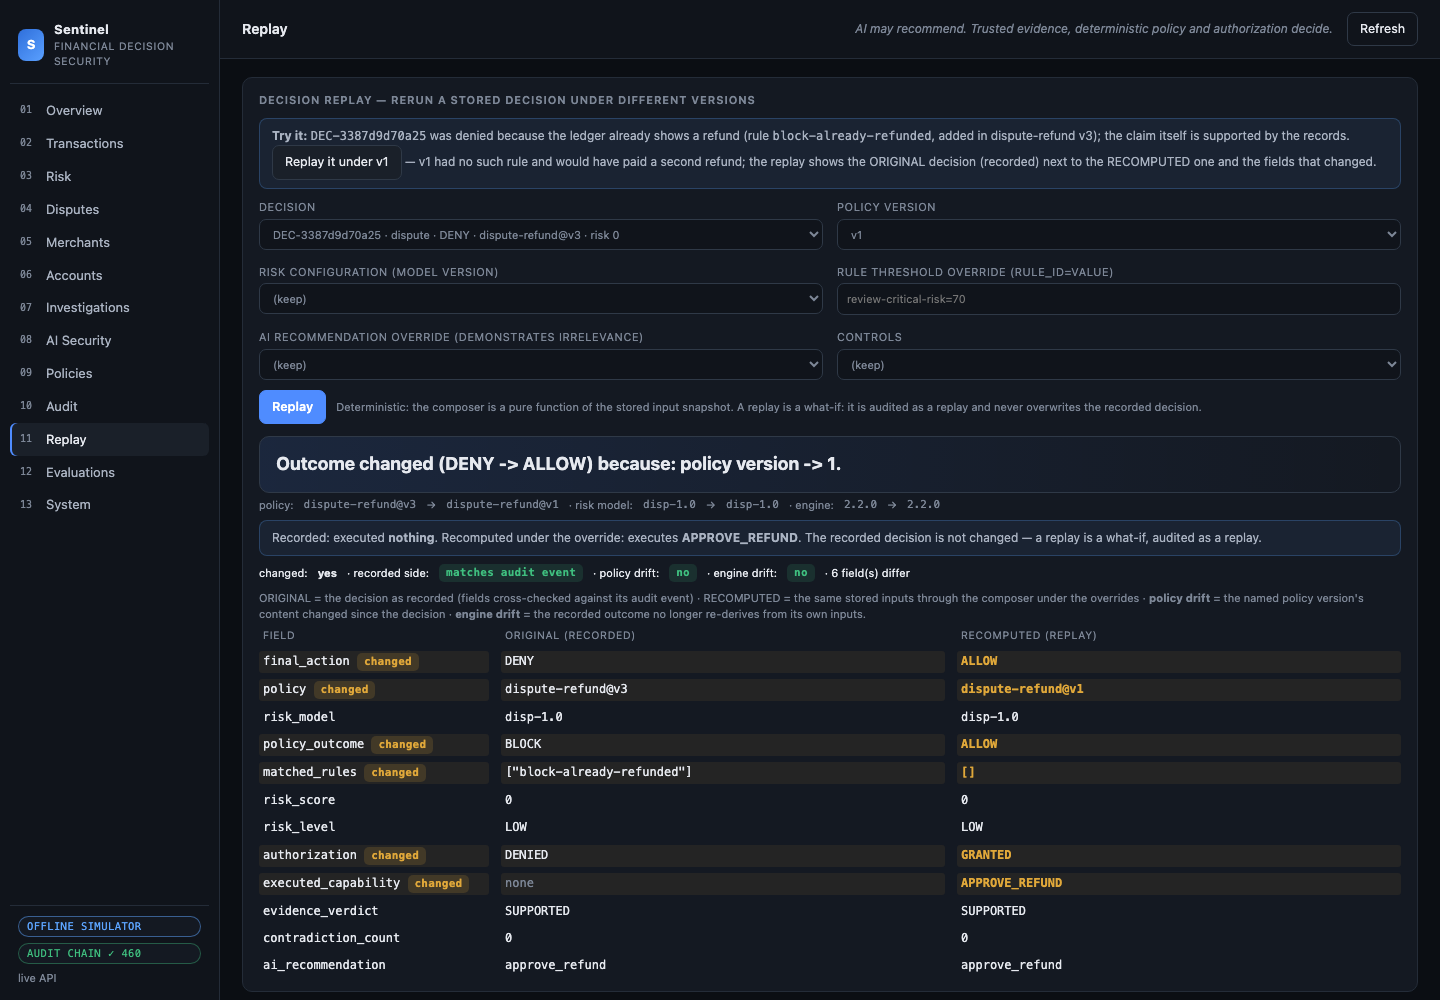
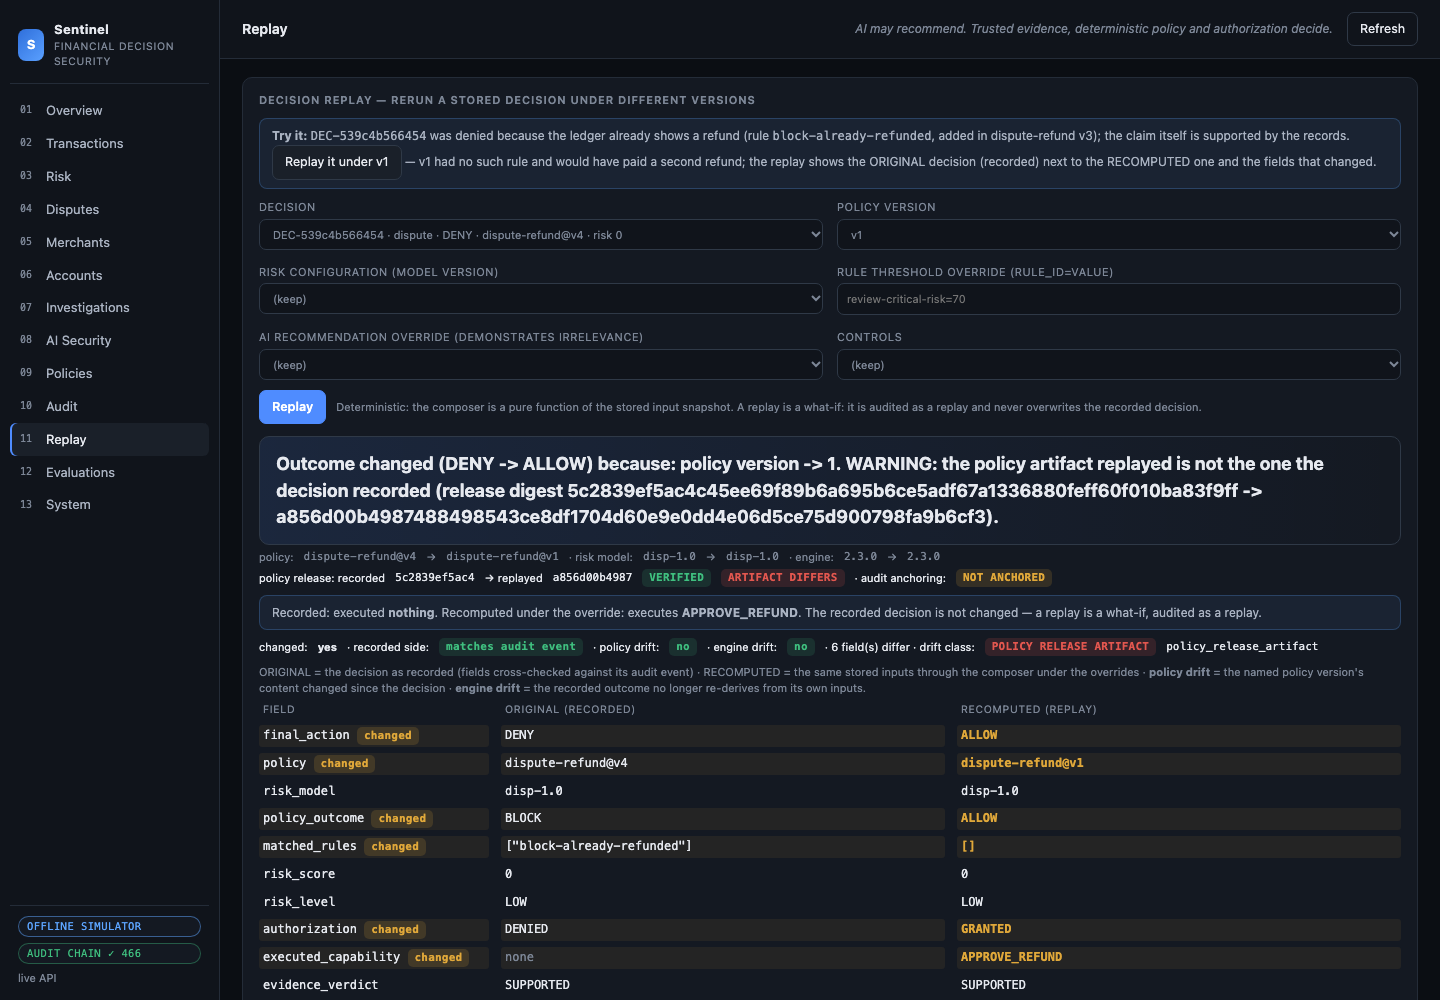
fix(ui): replay shows its drift class; the red-team card its baseline; screenshots re-captured
- Replay names its drift class and the drifts behind it (the API returned
  them; the console did not show them), in the result and the history.
- The red-team card states that evasion is measured on seeds the detector
  caught unmutated, with the baseline misses, and the structured table names
  the layer that stopped each attempt.
- "fact trust store: empty" read as no keys while it held the demo issuer's;
  it now says no operator store is configured and counts the demo key.
- The financial table overflowed the page horizontally (1,116 px in a
  1,024 px viewport); it scrolls inside its own container.
- scripts/screenshots.sh looked for the case the attack simulator used to
  record; the simulator records nothing since #21, so the review screenshot is
  a recorded dispute case. All four images are re-captured from the running
  console (real engine output, synthetic data).

Changed region(s): [[0.1562, 0.434, 0.9375, 0.992], [0.2188, 0.217, 0.4375, 0.248], [0.25, 0.124, 0.2812, 0.155]]

diff --git a/ui/app.js b/ui/app.js
@@ -462,7 +462,7 @@ VIEWS.replay = async () => {
   <div id="rp-history">${replayHistory(r)}</div>`;
 };
 function replayHistory(r) {
-  return `${card(`Replay history <span class="muted">${r.replays.length}</span>`, r.replays.length ? `<table><thead><tr><th>replay</th><th>decision</th><th>overrides</th><th>before</th><th>after</th><th>changed</th><th>drift</th><th>explanation</th></tr></thead><tbody>${r.replays.map(x => `<tr><td class="mono">${esc(x.replay_id)}</td><td class="mono">${esc(x.decision_id)}</td><td class="small wrap">${esc(x.overrides.join("; "))}</td><td>${chip(x.original.final_action)}</td><td>${chip(x.replayed.final_action)}</td><td>${x.changed ? "yes" : "no"}</td><td class="small">${x.policy_drift ? chip("policy drift", "CONTRADICTED") : ""}${x.original_drift ? chip("engine drift", "CONTRADICTED") : ""}${!x.policy_drift && !x.original_drift ? chip("none", "SUPPORTED") : ""}</td><td class="small wrap">${esc(x.explanation)}</td></tr>`).join("")}</tbody></table>` : empty("no replays yet"))}`;
+  return `${card(`Replay history <span class="muted">${r.replays.length}</span>`, r.replays.length ? `<table><thead><tr><th>replay</th><th>decision</th><th>overrides</th><th>before</th><th>after</th><th>changed</th><th>drift</th><th>explanation</th></tr></thead><tbody>${r.replays.map(x => `<tr><td class="mono">${esc(x.replay_id)}</td><td class="mono">${esc(x.decision_id)}</td><td class="small wrap">${esc(x.overrides.join("; "))}</td><td>${chip(x.original.final_action)}</td><td>${chip(x.replayed.final_action)}</td><td>${x.changed ? "yes" : "no"}</td><td class="small">${x.policy_drift ? chip("policy drift", "CONTRADICTED") : ""}${x.original_drift ? chip("engine drift", "CONTRADICTED") : ""}${!x.policy_drift && !x.original_drift ? chip(x.drift_class && x.drift_class !== "none" ? x.drift_class.replace(/_/g, " ") : "none", x.drift_class && x.drift_class !== "none" ? "INSUFFICIENT" : "SUPPORTED") : ""}</td><td class="small wrap">${esc(x.explanation)}</td></tr>`).join("")}</tbody></table>` : empty("no replays yet"))}`;
 }
 function replayView(x) {
   const keys = Object.keys(x.original);
@@ -476,7 +476,7 @@ function replayView(x) {
   const oc = x.original.executed_capability, rc = x.replayed.executed_capability;
   const consequence = oc !== rc ? `<div class="note" style="margin:8px 0">Recorded: executed <b>${esc(oc || "nothing")}</b>. Recomputed under the override: executes <b>${esc(rc || "nothing")}</b>. The recorded decision is not changed — a replay is a what-if, audited as a replay.</div>` : "";
   const show = (v) => typeof v === "string" ? esc(v) : v == null ? `<span class="muted">none</span>` : esc(JSON.stringify(v));
-  return `<div class="headline">${esc(x.explanation)}</div>${ver}${prov2}${issues}${consequence}<div class="row small" style="margin:8px 0">changed: <b>${x.changed ? "yes" : "no"}</b>${rec} · policy drift: ${x.policy_drift ? chip("YES", "CONTRADICTED") : chip("no", "SUPPORTED")} · engine drift: ${(x.engine_drift || x.original_drift) ? chip("YES", "CONTRADICTED") : chip("no", "SUPPORTED")} · ${diffs.length} field(s) differ</div><div class="subtle" style="margin:4px 0">ORIGINAL = the decision as recorded (fields cross-checked against its audit event) · RECOMPUTED = the same stored inputs through the composer under the overrides · <b>policy drift</b> = the named policy version's content changed since the decision · <b>engine drift</b> = the recorded outcome no longer re-derives from its own inputs.</div><div class="diff"><div class="h">field</div><div class="h">ORIGINAL (recorded)</div><div class="h">RECOMPUTED (replay)</div>${keys.map(k => { const ch = JSON.stringify(x.original[k]) !== JSON.stringify(x.replayed[k]); return `<div class="${ch ? "row-ch" : ""}">${esc(k)}${ch ? ` <span class="chip MEDIUM">changed</span>` : ""}</div><div class="${ch ? "row-ch" : ""}">${show(x.original[k])}</div><div class="${ch ? "row-ch changed" : ""}">${show(x.replayed[k])}</div>`; }).join("")}</div>`;
+  return `<div class="headline">${esc(x.explanation)}</div>${ver}${prov2}${issues}${consequence}<div class="row small" style="margin:8px 0">changed: <b>${x.changed ? "yes" : "no"}</b>${rec} · policy drift: ${x.policy_drift ? chip("YES", "CONTRADICTED") : chip("no", "SUPPORTED")} · engine drift: ${(x.engine_drift || x.original_drift) ? chip("YES", "CONTRADICTED") : chip("no", "SUPPORTED")} · ${diffs.length} field(s) differ${x.drift_class ? ` · drift class: ${chip(String(x.drift_class).toUpperCase().replace(/_/g, " "), x.drift_class === "none" ? "SUPPORTED" : x.drift_class === "override" ? "INSUFFICIENT" : "CONTRADICTED")}${(x.drift || []).length ? ` <span class="mono small">${esc(x.drift.join(", "))}</span>` : ""}` : ""}</div><div class="subtle" style="margin:4px 0">ORIGINAL = the decision as recorded (fields cross-checked against its audit event) · RECOMPUTED = the same stored inputs through the composer under the overrides · <b>policy drift</b> = the named policy version's content changed since the decision · <b>engine drift</b> = the recorded outcome no longer re-derives from its own inputs.</div><div class="diff"><div class="h">field</div><div class="h">ORIGINAL (recorded)</div><div class="h">RECOMPUTED (replay)</div>${keys.map(k => { const ch = JSON.stringify(x.original[k]) !== JSON.stringify(x.replayed[k]); return `<div class="${ch ? "row-ch" : ""}">${esc(k)}${ch ? ` <span class="chip MEDIUM">changed</span>` : ""}</div><div class="${ch ? "row-ch" : ""}">${show(x.original[k])}</div><div class="${ch ? "row-ch changed" : ""}">${show(x.replayed[k])}</div>`; }).join("")}</div>`;
 }
 
 VIEWS.evaluations = async () => {
@@ -499,10 +499,10 @@ VIEWS.evaluations = async () => {
     const tlv = f.transaction_level, al = f.account_level, ml = f.merchant_level, sr = f.seed_range || {};
     const rng = (lvl, met) => sr[lvl] ? `${pctc(sr[lvl][met].min)}–${pctc(sr[lvl][met].max)}` : "—";
     html += head("Financial risk — labelled synthetic dataset", "synthetic", "empirical") + `<div class="note">Development seed ${f.dataset.seed} (${f.dataset.transactions.toLocaleString()} transactions; the point values were tuned on it) with the range over held-out seeds ${(f.seeds && f.seeds.held_out || []).join(", ")} in brackets. Screening = transaction band; decisioning = policy outcome; triage = account monitoring. The model is a hand-weighted rule table, not ML.</div>
-    <table><thead><tr><th>level</th><th>scenarios</th><th class="num">precision</th><th class="num">recall</th><th class="num">FPR</th><th class="num">tp / fp / fn / tn</th></tr></thead><tbody>
+    <div style="overflow-x:auto"><table><thead><tr><th>level</th><th>scenarios</th><th class="num">precision</th><th class="num">recall</th><th class="num">FPR</th><th class="num">tp / fp / fn / tn</th></tr></thead><tbody>
     <tr><td>screening — transaction</td><td class="small">${esc((tlv.scenarios || []).join(", "))}</td><td class="num">${pctc(tlv.precision)} <span class="subtle">(${rng("transaction_level", "precision")})</span></td><td class="num">${pctc(tlv.recall)} <span class="subtle">(${rng("transaction_level", "recall")})</span></td><td class="num">${pctc(tlv.false_positive_rate, 2)}</td><td class="num">${tlv.tp} / ${tlv.fp} / ${tlv.fn} / ${tlv.tn}</td></tr>
     <tr><td>triage — account monitoring</td><td class="small">${esc((al.scenarios || []).join(", "))}</td><td class="num">${pctc(al.precision)} <span class="subtle">(${rng("account_level", "precision")})</span></td><td class="num">${pctc(al.recall)} <span class="subtle">(${rng("account_level", "recall")})</span></td><td class="num">${pctc(al.false_positive_rate, 2)}</td><td class="num">${al.tp} / ${al.fp} / ${al.fn} / ${al.tn}</td></tr>
-    <tr><td>merchant profile</td><td class="small">${esc(ml.definition || "")} (n=${ml.bad_merchants} positives — too few to conclude)</td><td class="num">${pctc(ml.precision)}</td><td class="num">${pctc(ml.recall)}</td><td class="num">${pctc(ml.false_positive_rate, 2)}</td><td class="num">${ml.tp} / ${ml.fp} / ${ml.fn} / ${ml.tn}</td></tr></tbody></table>`;
+    <tr><td>merchant profile</td><td class="small">${esc(ml.definition || "")} (n=${ml.bad_merchants} positives — too few to conclude)</td><td class="num">${pctc(ml.precision)}</td><td class="num">${pctc(ml.recall)}</td><td class="num">${pctc(ml.false_positive_rate, 2)}</td><td class="num">${ml.tp} / ${ml.fp} / ${ml.fn} / ${ml.tn}</td></tr></tbody></table></div>`;
     html += `<div class="grid c2">${card("Transaction recall by scenario (n)", `<div class="chart">${hbarChart(Object.fromEntries(Object.entries(f.recall_by_scenario).map(([k2, v]) => [`${k2.replace("fraud:", "")} (n=${v.n})`, v.recall])), {pct: true})}</div>`)}${card("Calibration — observed fraud rate per transaction band (n)", `<div class="chart">${barChart(Object.fromEntries(Object.entries(f.calibration).map(([k2, v]) => [k2, v.observed_fraud_rate])), {order: ["LOW", "MEDIUM", "HIGH", "CRITICAL"], pct: true, height: 140})}</div><div class="subtle">${Object.entries(f.calibration).map(([k2, v]) => `${k2} n=${v.n}`).join(" · ")}</div>`)}</div>`;
     if (tlv.miss_breakdown) html += card("Why transactions are missed — dominant signals per scenario", `<table><thead><tr><th>scenario</th><th class="num">n</th><th class="num">detected</th><th class="num">missed</th><th>signals when detected</th><th>signals when missed</th></tr></thead><tbody>${Object.entries(tlv.miss_breakdown).map(([sc, v]) => `<tr><td>${esc(sc)}</td><td class="num">${v.n}</td><td class="num">${v.detected}</td><td class="num">${v.missed}</td><td class="small wrap">${esc(Object.entries(v.dominant_signals_detected).map(([a, c]) => `${a} ×${c}`).join(", "))}</td><td class="small wrap">${esc(Object.entries(v.dominant_signals_missed).map(([a, c]) => `${a} ×${c}`).join(", ")) || "—"}</td></tr>`).join("")}</tbody></table>`);
     if (f.held_out_seeds) html += card("Held-out seeds (point values never inspected against these)", `<table><thead><tr><th>seed</th><th>level</th><th class="num">precision</th><th class="num">recall</th><th class="num">FPR</th><th class="num">tp / fp / fn / tn</th></tr></thead><tbody>${Object.entries(f.held_out_seeds).flatMap(([seed, v]) => ["transaction_level", "account_level", "merchant_level"].map(l => `<tr><td class="mono">${esc(seed)}</td><td>${esc(l.replace("_level", ""))}</td><td class="num">${pctc(v[l].precision)}</td><td class="num">${pctc(v[l].recall)}</td><td class="num">${pctc(v[l].false_positive_rate, 2)}</td><td class="num">${v[l].tp} / ${v[l].fp} / ${v[l].fn} / ${v[l].tn}</td></tr>`)).join("")}</tbody></table>`);
@@ -527,7 +527,7 @@ VIEWS.system = async () => {
   const [s, c] = await Promise.all([API.get("/v1/system"), API.get("/v1/capabilities")]);
   return `<div class="grid c2">${card("System", kv({name: s.name, version: s.version, mode: s.mode, provider: s.provider, model: s.model, store: s.store, "audit chain": s.audit.ok ? `verified (${s.audit.length} events)` : "AUDIT INTEGRITY ERROR", "console source": API.isLive() ? "live API" : "static snapshot (read-only)"}))}${card("Policies & risk models", `<div class="pill-list">${s.policies.map(p => chip(p, "trusted")).join("")}</div><div class="pill-list" style="margin-top:8px">${s.risk_models.map(m => chip(m, "model")).join("")}</div>`)}</div>
   ${card("Capability security matrix <span class='muted'>who may make what happen — " + esc(c.invariant) + "</span>", `<table class="matrix"><thead><tr><th>capability</th><th>risk</th><th>irreversible</th><th>money</th><th>consequential</th><th>AI agent allowed</th><th>required authorization</th><th class="num">human threshold</th><th>allowed actors</th><th>executable from</th><th>policy gates</th></tr></thead><tbody>${[...c.capabilities].sort((a, b) => b.consequential - a.consequential).map(r => `<tr><td class="mono">${esc(r.capability)}</td><td>${chip(r.risk)}</td><td class="${r.irreversible ? "yes" : "no"}">${r.irreversible ? "yes" : "no"}</td><td class="${r.financial_effect ? "yes" : "no"}">${r.financial_effect ? "yes" : "no"}</td><td>${r.consequential ? "yes" : "no"}</td><td class="${r.ai_agent_allowed ? (r.consequential ? "yes" : "") : "no"}">${r.ai_agent_allowed ? (r.consequential ? "YES" : "yes (read / recommend)") : "never"}</td><td class="mono small">${esc(r.required_authorization)}</td><td class="num">${r.human_review_threshold != null ? inr(r.human_review_threshold) : "—"}</td><td class="small">${esc(r.allowed_actors.join(", ") || "nobody")}</td><td class="small">${esc((r.workflows || []).join(", ") || (r.consequential ? "no workflow — a human, via the case service" : "—"))}</td><td class="small wrap">${esc(r.policy_gates.join(", ") || "—")}</td></tr>`).join("")}</tbody></table>`)}
-  ${card("Trust roots <span class='muted'>public keys only; every private key lives off this host</span>", `<div class="grid c2"><div>${kv({"policy releases": s.policy_releases ? (s.policy_releases.signed ? `signed (${esc(s.policy_releases.trust_root)} root)` : "UNSIGNED") : "—", "fact trust store": s.trust ? `${esc(s.trust.origin)} · ${(s.trust.keys || []).length} key(s)` : "—", "audit anchor": s.audit.anchor ? esc(s.audit.anchor) : "none configured (the chain proves only its own consistency)"})}</div><div>${s.policy_releases ? `<table><thead><tr><th>policy</th><th>active</th><th>release</th><th>activation</th></tr></thead><tbody>${Object.entries(s.policy_releases.policies).map(([pid, r]) => `<tr><td class="mono small">${esc(pid)}</td><td class="mono">v${esc(String((r.active || {}).version ?? "—"))}</td><td>${chip((r.active || {}).status || "—", (r.active || {}).status === "VERIFIED" ? "SUPPORTED" : "CONTRADICTED")}</td><td class="num">${esc(String((r.active || {}).activation_sequence ?? "—"))}</td></tr>`).join("")}</tbody></table>` : ""}</div></div>`)}
+  ${card("Trust roots <span class='muted'>public keys only; every private key lives off this host</span>", `<div class="grid c2"><div>${kv({"policy releases": s.policy_releases ? (s.policy_releases.signed ? `signed (${esc(s.policy_releases.trust_root)} root)` : "UNSIGNED") : "—", "fact trust store": s.trust ? `${s.trust.origin === "empty" ? "no operator store configured" : esc(s.trust.origin)} · ${(s.trust.keys || []).length} key(s)${s.trust.demo_issuer ? " (incl. the ephemeral demo issuer)" : ""}` : "—", "audit anchor": s.audit.anchor ? esc(s.audit.anchor) : "none configured (the chain proves only its own consistency)"})}</div><div>${s.policy_releases ? `<table><thead><tr><th>policy</th><th>active</th><th>release</th><th>activation</th></tr></thead><tbody>${Object.entries(s.policy_releases.policies).map(([pid, r]) => `<tr><td class="mono small">${esc(pid)}</td><td class="mono">v${esc(String((r.active || {}).version ?? "—"))}</td><td>${chip((r.active || {}).status || "—", (r.active || {}).status === "VERIFIED" ? "SUPPORTED" : "CONTRADICTED")}</td><td class="num">${esc(String((r.active || {}).activation_sequence ?? "—"))}</td></tr>`).join("")}</tbody></table>` : ""}</div></div>`)}
   ${card("In-process metrics", `<div class="grid c2"><div>${kv(s.metrics.counters || {})}</div><div>${Object.keys(s.metrics.latency || {}).length ? `<table><thead><tr><th>key</th><th class="num">n</th><th class="num">p50</th><th class="num">p95</th><th class="num">p99</th></tr></thead><tbody>${Object.entries(s.metrics.latency).map(([k, v]) => `<tr><td class="mono small">${esc(k)}</td><td class="num">${v.n}</td><td class="num">${v.p50_ms}</td><td class="num">${v.p95_ms}</td><td class="num">${v.p99_ms}</td></tr>`).join("")}</tbody></table>` : empty("no latency samples yet")}</div></div>`)}
   ${card("Architecture", `<pre>untrusted information → AI Security Gateway (provenance · normalisation · detection)
         ↓

diff --git a/README.md b/README.md
@@ -171,7 +171,7 @@ seeds, method and limitations.
 | **Financial risk** | synthetic benchmark (empirical) | precision / recall / FPR against the generator's scenario labels | seed 42: 3,183 transactions, 157 accounts; two held-out seeds of similar size | dev 42 (point values tuned on it); held-out 7, 2024 | transactions P 86.7% R 67.2% FPR 0.19%; accounts P 90.0% R 90.0% | [§G](docs/EVALUATION.md#g-financial-risk-on-labelled-synthetic-data-resultsfinancialjson) |
 | **Temporal correctness** | synthetic invariant check (empirical; not a proof) | a record dated after T changing a decision at T | 497 transactions; 9 kinds of future record at 4 offsets; 9,443 checks | seeds 42, 7, 11, 23 | **0 observed leaks** (95% upper bound 0.032% per check, 0.60% per sampled transaction) | [§I](docs/EVALUATION.md#i-temporal-correctness-resultstemporaljson) |
 | **Claim classifier** | synthetic, same author; defence in depth, not the foundation | legitimate claims read as their type; the rest held for a human | 117 phrasings; 21 held-out unusual phrasings | hand-authored | held-out: first (blind) run 7/21; 17/21 after the patterns were extended by an author who had seen the misses; FN 4/56, FP 0/28 | [§L](docs/EVALUATION.md#l-claim-classifier-resultsclaimsjson) |
-| **Performance** | local benchmark (one machine) | the platform's own latency, offline agent | 500 end-to-end iterations | macOS | dispute pipeline p95 0.2396 ms | [PERFORMANCE.md](docs/PERFORMANCE.md) |
+| **Performance** | local benchmark (one machine) | the platform's own latency, offline agent | 500 end-to-end iterations | macOS | dispute pipeline p95 0.3237 ms | [PERFORMANCE.md](docs/PERFORMANCE.md) |
 | **Live LLM** | live-model evaluation | the same suites against a real model | -- | `claude-opus-5-5/effort-low, claude-sonnet-5-5/effort-low` | **NOT RUN** -- no live number is quoted anywhere | [§K](docs/EVALUATION.md#k-model--provider-evaluation-resultsmodelsjson) |
 <!-- /gen:evaluation-categories -->
 
@@ -253,7 +253,7 @@ engine output over the synthetic demo dataset, nothing drawn by hand.
 |:---:|:---:|
 | [![AI Security: the flagship attack WITHOUT vs WITH Sentinel](docs/img/ai-security.png)](docs/img/ai-security.png) | [![Case review packet](docs/img/case-review.png)](docs/img/case-review.png) |
 | **AI Security** -- what the attacker claimed, what the AI recommended, what the records say, what was allowed with and without Sentinel | **Case review packet** -- the claim checked against the record, the model's recommendation beside (not inside) the decision, and who may approve |
-| [![Replay: a v3 denial re-run under v1](docs/img/replay.png)](docs/img/replay.png) | [![Transaction risk drawer](docs/img/transaction-risk.png)](docs/img/transaction-risk.png) |
+| [![Replay: a recorded denial re-run under policy v1](docs/img/replay.png)](docs/img/replay.png) | [![Transaction risk drawer](docs/img/transaction-risk.png)](docs/img/transaction-risk.png) |
 | **Replay** -- a recorded denial re-run under policy v1, which would have paid a second refund; the recorded decision is unchanged | **Transaction risk** -- every point is a named factor; the account timeline greys out what came after the decision |
 
 ## Quickstart
@@ -317,9 +317,9 @@ are `{error, code, request_id}`; no stack trace ever leaves the server.
 <!-- gen:performance -->
 ### Performance (offline, own overhead)
 
-Full protected dispute pipeline: **p50 0.228 ms · p95 0.2396 ms · 4,343/s**
-sequential single-thread; policy evaluation 0.0178 ms p95 over the composer's real
-27-field context; gateway inspection 0.235 ms p95 ([all components](docs/PERFORMANCE.md)).
+Full protected dispute pipeline: **p50 0.3089 ms · p95 0.3237 ms · 3,213/s**
+sequential single-thread; policy evaluation 0.0187 ms p95 over the composer's real
+27-field context; gateway inspection 0.2347 ms p95 ([all components](docs/PERFORMANCE.md)).
 <!-- /gen:performance -->
 
 ## Limitations
